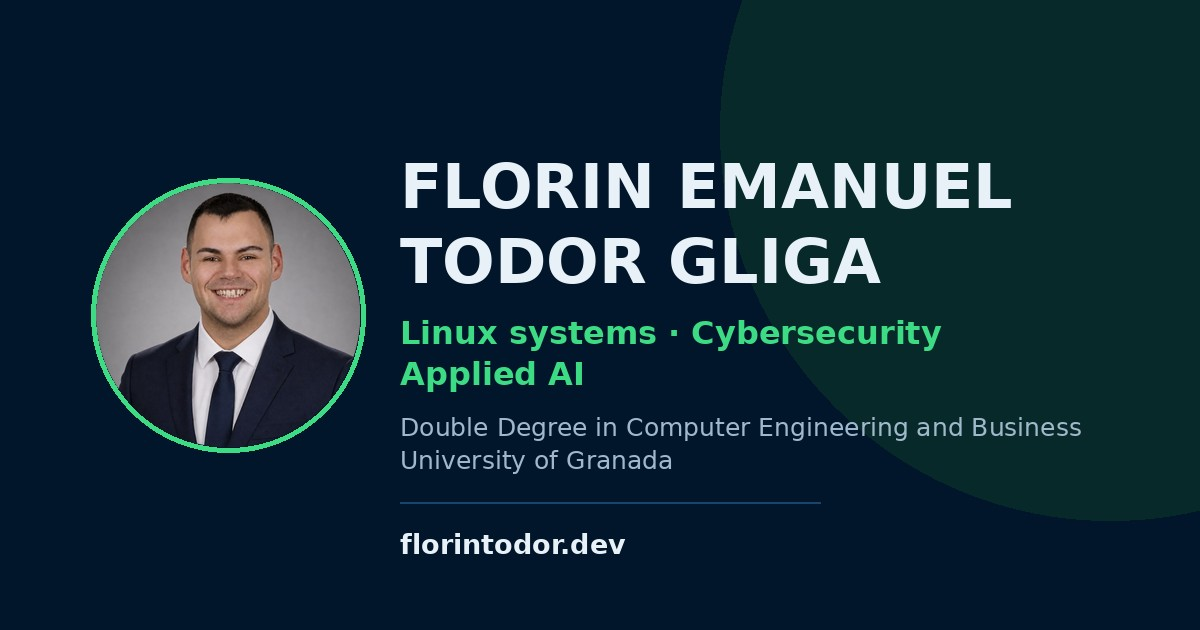
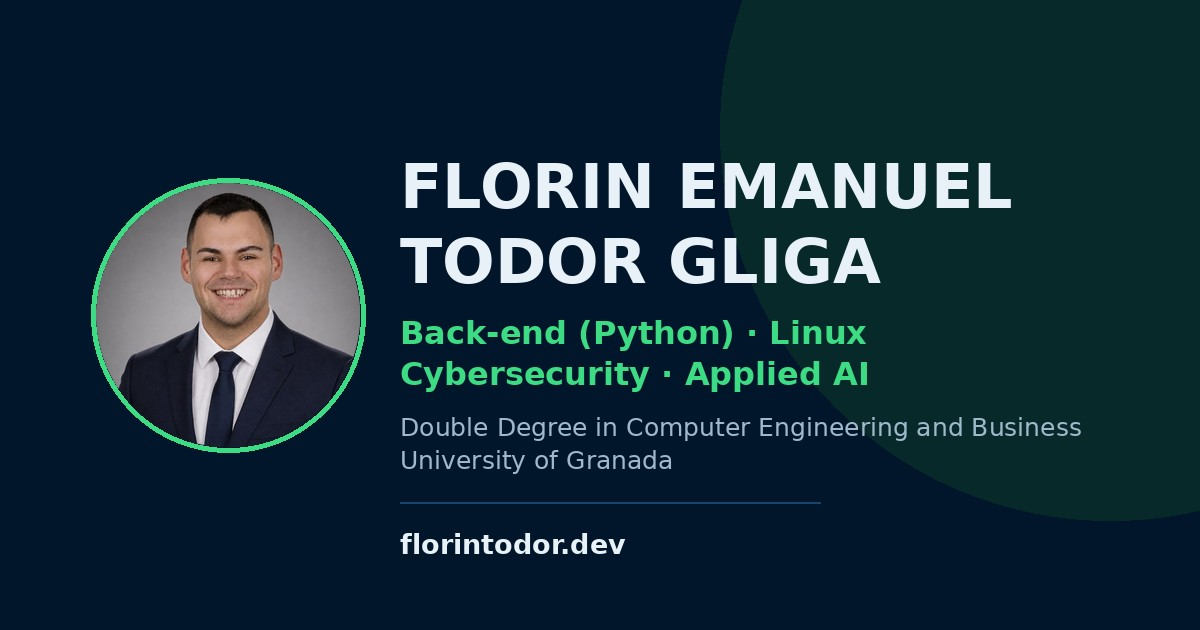
Back-end en la tarjeta de compartir y repos con nombre de proyecto
La tarjeta del sitio decía «Sistemas Linux · Ciberseguridad · IA aplicada»,
cuando el perfil de GitHub y el CV ya lo presentan como back-end en Python.

PDOO pasa a irrgarten y DAI_practicas a tienda-online; la tienda enlaza ya a
la raíz del repo, que tiene su README.

Changed region(s): [[0.3392, 0.5127, 0.8017, 0.6333]]

diff --git a/scripts/generar-og.py b/scripts/generar-og.py
@@ -34,7 +34,7 @@ BLOG = {'es': RAIZ / 'src/content/blog', 'en': RAIZ / 'src/content/blog/en'}
 # texto de proyectos.json y proyectos.en.json, igual que la web.
 TEXTOS = {
     'es': {
-        'rol': ['Sistemas Linux · Ciberseguridad', 'IA aplicada'],
+        'rol': ['Back-end (Python) · Linux', 'Ciberseguridad · IA aplicada'],
         'formacion': ['Doble Grado en Ingeniería Informática y ADE',
                       'Universidad de Granada'],
         'meses': ['ene', 'feb', 'mar', 'abr', 'may', 'jun',
@@ -43,7 +43,7 @@ TEXTOS = {
         'minutos': '{} min de lectura',
     },
     'en': {
-        'rol': ['Linux systems · Cybersecurity', 'Applied AI'],
+        'rol': ['Back-end (Python) · Linux', 'Cybersecurity · Applied AI'],
         'formacion': ['Double Degree in Computer Engineering and Business',
                       'University of Granada'],
         'meses': ['Jan', 'Feb', 'Mar', 'Apr', 'May', 'Jun',

diff --git a/scripts/generar-video-irrgarten.py b/scripts/generar-video-irrgarten.py
@@ -2,7 +2,7 @@
 """Convierte una partida real de Irrgarten en public/media/irrgarten.mp4.
 
 La transcripción (scripts/irrgarten-partida.txt) es la salida literal de
-`ruby Main/main.rb` del repo FlorinTodor/PDOO, jugada de principio a fin hasta
+`ruby Main/main.rb` del repo FlorinTodor/irrgarten, jugada de principio a fin hasta
 ganar. Aquí sólo se re-dibuja con tipografía de terminal y se le da el ritmo de
 una sesión real: la salida de cada turno aparece de golpe, hay una pausa
 mientras el jugador decide, y luego se ve la tecla que ha pulsado.
